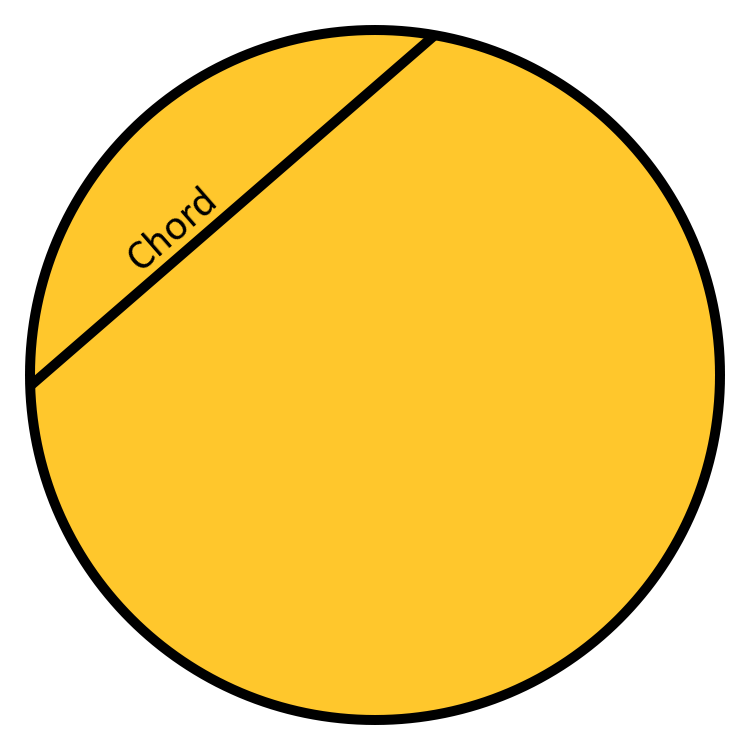
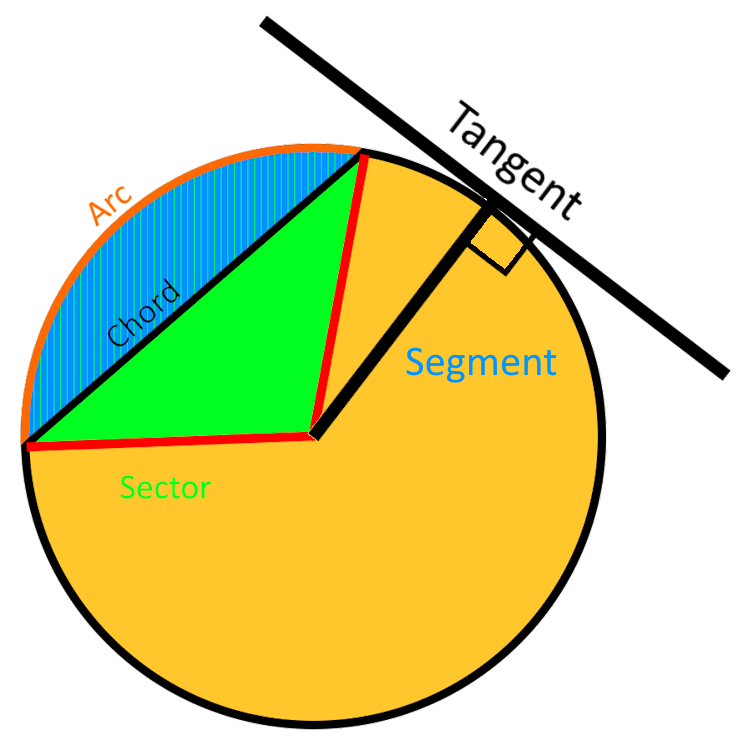
Added more parts lesson section

diff --git a/RH1035-Lesson-1.html b/RH1035-Lesson-1.html
@@ -33,7 +33,7 @@
             <h1>Circles</h1>
 
 
-            
+
             <h2>Radius & diameter</h2>
             <img class="circle-image" src="/images/circles/diameter-radius.png"
                 alt="A circle with the radius annotated"><br>
@@ -102,15 +102,13 @@
 
 
 
-            <h2>Chord</h2>
+            <h2>More parts</h2>
             <img class="circle-image" src="/images/circles/chord.png" alt="A circle with a chord annotated"><br>
-
-
-
-
-
-            <h2>Tangent</h2>
-            <img class="circle-image" src="/images/circles/tangent.png" alt="A circle with a tangent annotated"><br>
+            <p>A chord is a line joining any 2 points on the circumference of a circle</p>
+            <p>An arc is a section of the circumference between two given points</p>
+            <p>A segment is the area enclosed between an arc and it's chord</p>
+            <p>A sector is the area enclose between two radii and their arc</p>
+            <p>A tangent is a straight line which touches only one point on the edge of a circle and is perpendicular to the radius of that point</p>
         </main>
     </div>
 </body>
